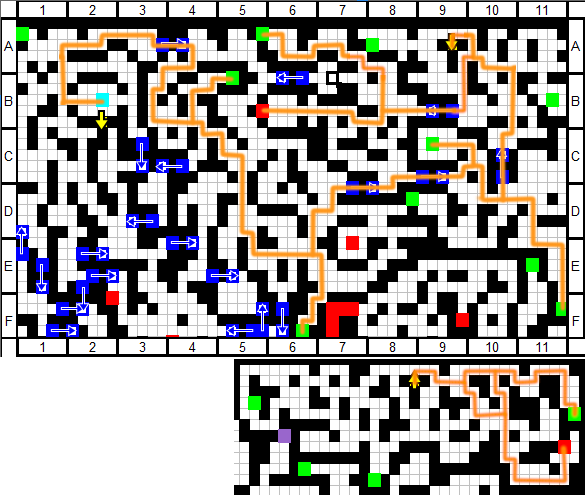
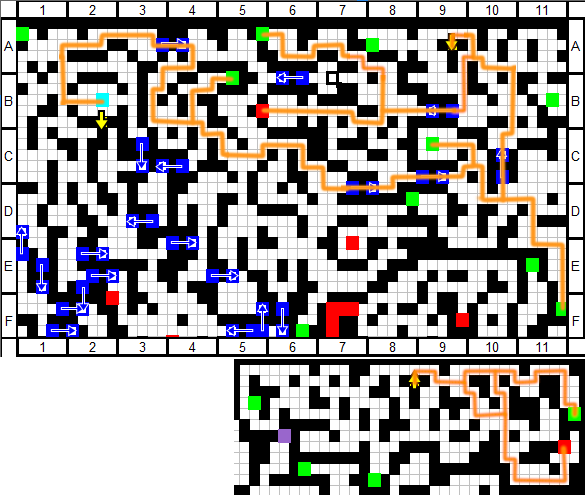
Removed uneeded treasure from 8F

Changed region(s): [[0.4, 0.2727, 0.5846, 0.697]]

diff --git a/item/chests.md b/item/chests.md
@@ -218,7 +218,7 @@ Any treasure located in floor A that can only be obtained after reaching floor B
 | 788 Money | O |
 | 880 Money | O |
 | Big Bang Wave Cannon | O |
-| Biggest Sword Ever | O |
+| Biggest Sword Ever | X |
 | Chario Boots | O |
 | Chitin Shell x5 | X |
 | Damascus Dread Shield | X |
@@ -236,9 +236,9 @@ Any treasure located in floor A that can only be obtained after reaching floor B
 | Symbol of Faith | O |
 | Treasure Chest Key | O |
 | Ultrafast Granite Keystone | X |
-| Floor Total | 11 |
+| Floor Total | 10 |
 | Possible Skips | 0 |
-| Combined Total | 71 |
+| Combined Total | 70 |
 
 #### <a id="floor-9"></a>Floor 9
 
@@ -264,7 +264,7 @@ Any treasure located in floor A that can only be obtained after reaching floor B
 | Youkai's Fire Blowgun x2 | X |
 | Floor Total | 9 |
 | Possible Skips | 0 |
-| Combined Total | 80 |
+| Combined Total | 79 |
 
 #### <a id="floor-10"></a>Floor 10
 
@@ -290,7 +290,7 @@ Any treasure located in floor A that can only be obtained after reaching floor B
 | Treasure Chest Key | O |
 | Floor Total | 8 |
 | Possible Skips | 0 |
-| Combined Total | 88 |
+| Combined Total | 87 |
 
 #### <a id="floor-11"></a>Floor 11
 
@@ -318,7 +318,7 @@ Any treasure located in floor A that can only be obtained after reaching floor B
 | Yggdrasil Dew | O |
 | Floor Total | 10 |
 | Possible Skips | 0 |
-| Combined Total | 98 |
+| Combined Total | 97 |
 
 #### <a id="floor-12"></a>Floor 12
 
@@ -345,7 +345,7 @@ Any treasure located in floor A that can only be obtained after reaching floor B
 | Wallbreaker Armband | O |
 | Floor Total | 8 |
 | Possible Skips | 0 |
-| Combined Total | 106 |
+| Combined Total | 105 |
 
 #### <a id="floor-13"></a>Floor 13
 
@@ -367,7 +367,7 @@ Any treasure located in floor A that can only be obtained after reaching floor B
 | Training Manual | X |
 | Floor Total | 1 |
 | Possible Skips | 0 |
-| Combined Total | 107 |
+| Combined Total | 106 |
 
 #### <a id="floor-14"></a>Floor 14
 
@@ -394,7 +394,7 @@ Any treasure located in floor A that can only be obtained after reaching floor B
 | Wisdom Gem | X |
 | Floor Total | 5 |
 | Possible Skips | 0 |
-| Combined Total | 112 |
+| Combined Total | 111 |
 
 #### <a id="floor-15"></a>Floor 15
 
@@ -429,7 +429,7 @@ Any treasure located in floor A that can only be obtained after reaching floor B
 | Medal Shattering Youkai Axe | X |
 | Floor Total | 8 |
 | Possible Skips | 0 |
-| Combined Total | 120 |
+| Combined Total | 119 |
 
 #### <a id="floor-16"></a>Floor 16
 
@@ -456,7 +456,7 @@ Any treasure located in floor A that can only be obtained after reaching floor B
 | Wash Basin Set | X |
 | Floor Total | 3 |
 | Possible Skips | 0 |
-| Combined Total | 123 |
+| Combined Total | 122 |
 
 #### <a id="floor-17"></a>Floor 17
 
@@ -480,7 +480,7 @@ Any treasure located in floor A that can only be obtained after reaching floor B
 | Water Cutting Sword | X |
 | Floor Total | 3 |
 | Possible Skips | 0 |
-| Combined Total | 126 |
+| Combined Total | 125 |
 
 #### <a id="floor-18"></a>Floor 18
 
@@ -503,7 +503,7 @@ Any treasure located in floor A that can only be obtained after reaching floor B
 | Treasure Chest Key | X |
 | Floor Total | 4 |
 | Possible Skips | 0 |
-| Combined Total | 130 |
+| Combined Total | 129 |
 
 #### <a id="floor-19"></a>Floor 19
 
@@ -532,7 +532,7 @@ Any treasure located in floor A that can only be obtained after reaching floor B
 | Medal Shattering Youkai Axe | X |
 | Floor Total | 4 |
 | Possible Skips | 1 |
-| Combined Total | 134 |
+| Combined Total | 133 |
 
 #### <a id="floor-20"></a>Floor 20
 
@@ -561,7 +561,7 @@ Any treasure located in floor A that can only be obtained after reaching floor B
 | Wisdom Gem | X |
 | Floor Total | 1 |
 | Possible Skips | 1 |
-| Combined Total | 135 |
+| Combined Total | 134 |
 
 ## <a id="neglected-list"></a>Neglected Treasures List
 
